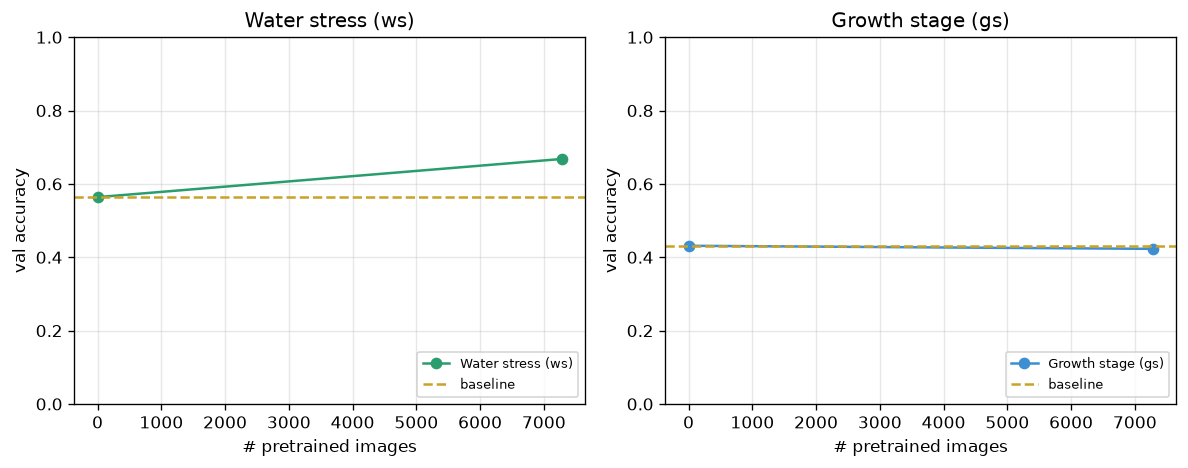
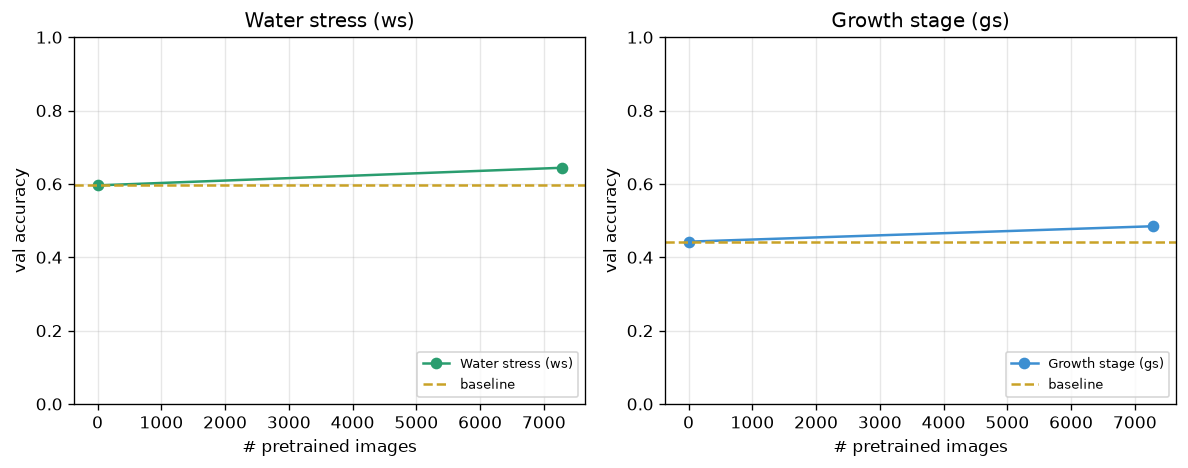
metrics: publish from S3 logs

Changed region(s): [[0.0623, 0.3291, 0.4983, 0.4487], [0.5606, 0.4786, 0.9966, 0.5385]]

diff --git a/README.md b/README.md
@@ -14,12 +14,12 @@ Continually grow a **vision foundation model** for crop UAV imagery by pooling m
 ## Results
 
 <!-- ucfm:metrics:start -->
-_Updated 2026-09-27 04:47 UTC. Dashed gold = baseline (DINOv2, no pool pretrain)._
+_Updated 2026-09-28 03:51 UTC. Dashed gold = baseline (DINOv2, no pool pretrain)._
 
 | # pool images | ws (val acc) | gs (val acc) | note |
 |--------------:|-------------:|-------------:|------|
-| 0 (baseline) | 0.564 | 0.431 | no pool pretrain |
-| 7281 | 0.668 | 0.423 | after pretrain steps=200 |
+| 0 (baseline) | 0.596 | 0.443 | no pool pretrain |
+| 7281 | 0.644 | 0.485 | after pretrain epochs=2 steps=912 |
 
 ![ws/gs vs pool size](assets/performance.png)
 <!-- ucfm:metrics:end -->
